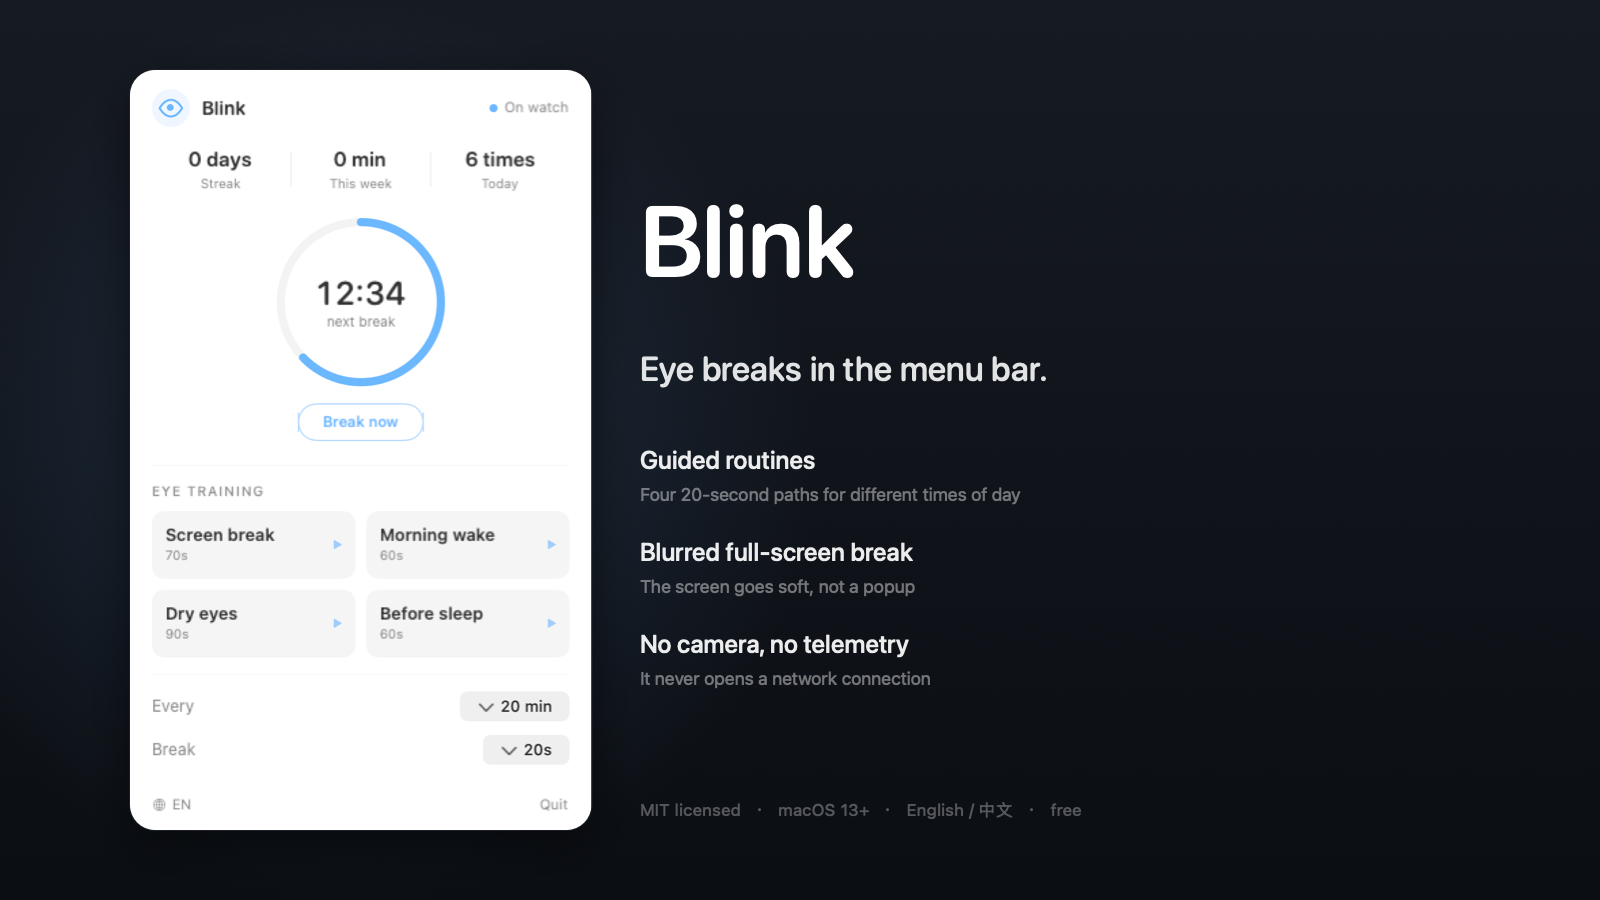
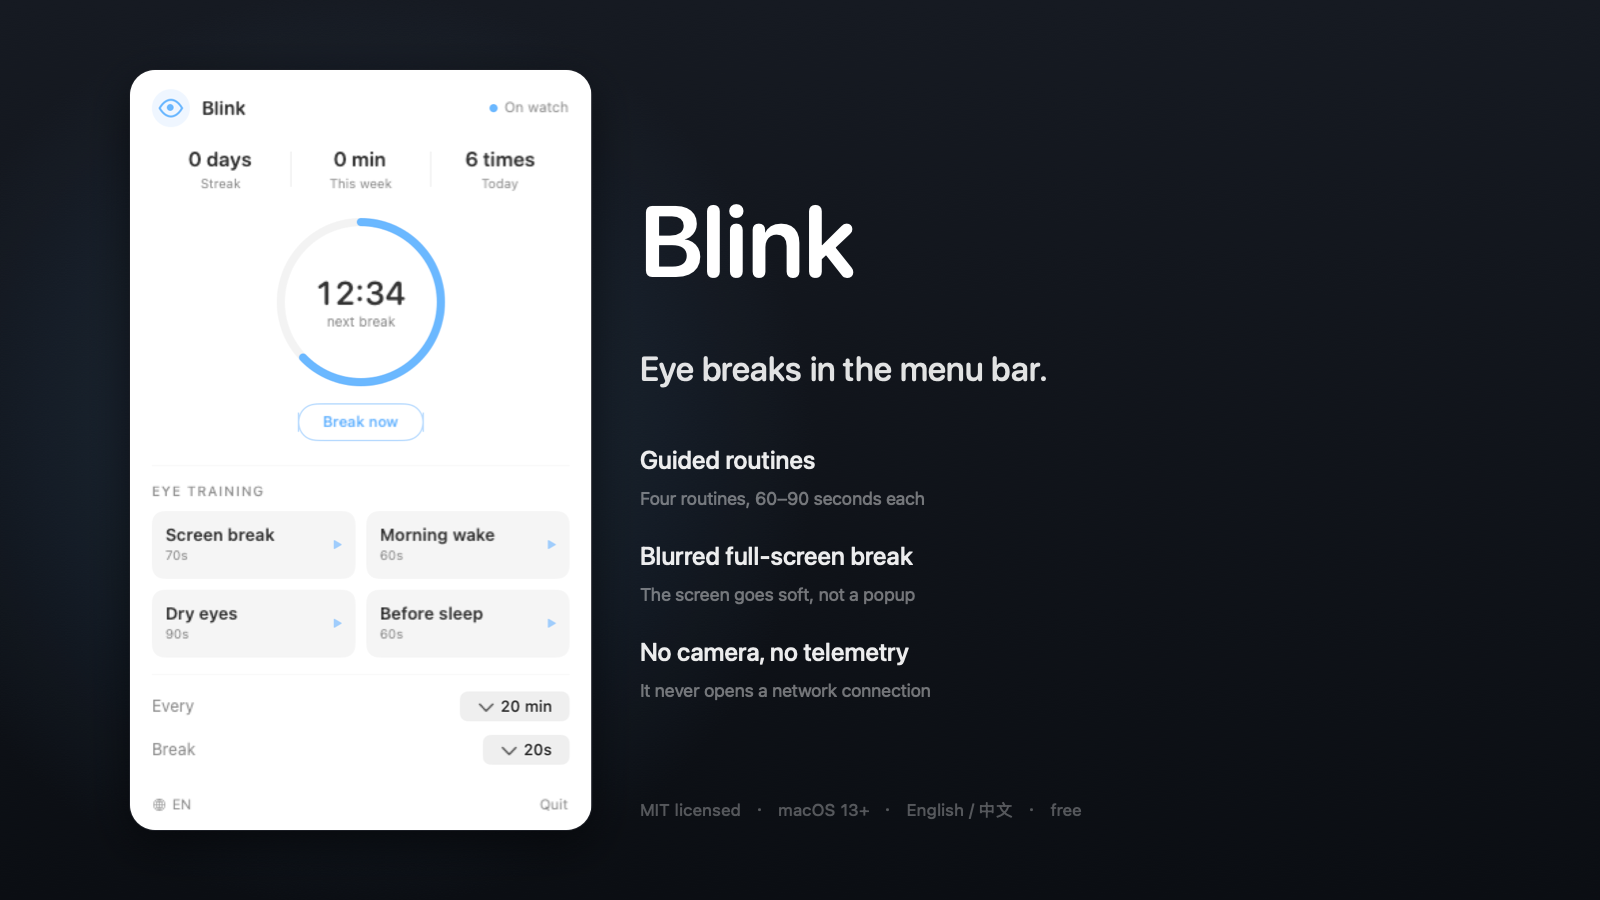
README: lead with the hero card, move install before the fold

Changed region(s): [[0.375, 0.5911, 0.5938, 0.7778], [0.4062, 0.5289, 0.6562, 0.56]]

diff --git a/Tools/make_x_card.swift b/Tools/make_x_card.swift
@@ -1,7 +1,8 @@
 import AppKit
 
-// 生成 X（Twitter）用的 1600×900 主视觉卡片
-// 用法：swift Tools/make_x_card.swift screenshots/en/menu.png screenshots/en/x-hero.png
+// 生成 1600×900 主视觉卡片（README 首屏 / X / 小红书通用）
+// 用法：swift Tools/make_x_card.swift screenshots/en/menu.png screenshots/en/x-hero.png en
+//       swift Tools/make_x_card.swift screenshots/zh/menu.png screenshots/zh/x-hero.png zh
 
 let W: CGFloat = 1600
 let H: CGFloat = 900
@@ -91,31 +92,39 @@ panel.draw(in: cardRect, from: .zero, operation: .sourceOver, fraction: 1)
 NSGraphicsContext.restoreGraphicsState()
 
 // 右侧文案
+let lang = args.count >= 4 ? args[3] : "en"
+let zh = lang == "zh"
+
 let tx: CGFloat = 640.0
 let textW: CGFloat = 900.0
 
 draw("Blink", font: roundedFont(100, .semibold),
      color: .white, x: tx, topY: 250, width: textW, spacing: -1.5)
 
-draw("Eye breaks in the menu bar.", font: roundedFont(34, .medium),
-     color: NSColor.white.withAlphaComponent(0.88), x: tx, topY: 372, width: textW)
+draw(zh ? "眼睛的休息，就在菜单栏里。" : "Eye breaks in the menu bar.",
+     font: roundedFont(zh ? 38 : 34, .medium),
+     color: NSColor.white.withAlphaComponent(0.88), x: tx, topY: zh ? 366 : 372, width: textW)
 
-let bullets: [(String, String)] = [
-    ("Guided routines", "Four 20-second paths for different times of day"),
+let bullets: [(String, String)] = zh ? [
+    ("引导式训练", "四套课程，每套 60–90 秒，跟着光点走"),
+    ("全屏模糊休息", "屏幕柔和暗下，不是弹一个窗"),
+    ("不碰摄像头，不联网", "全程零网络请求，数据只在本机")
+] : [
+    ("Guided routines", "Four routines, 60–90 seconds each"),
     ("Blurred full-screen break", "The screen goes soft, not a popup"),
     ("No camera, no telemetry", "It never opens a network connection")
 ]
 var y: CGFloat = 462
 for (title, sub) in bullets {
-    draw(title, font: .systemFont(ofSize: 25, weight: .medium),
+    draw(title, font: .systemFont(ofSize: zh ? 27 : 25, weight: .medium),
          color: NSColor.white.withAlphaComponent(0.92), x: tx, topY: y, width: textW)
     draw(sub, font: .systemFont(ofSize: 18, weight: .regular),
-         color: NSColor.white.withAlphaComponent(0.42), x: tx, topY: y + 34, width: textW)
-    y += 92
+         color: NSColor.white.withAlphaComponent(0.42), x: tx, topY: y + 38, width: textW)
+    y += 96
 }
 
 // 底栏标签
-draw("MIT licensed   ·   macOS 13+   ·   English / 中文   ·   free",
+draw(zh ? "MIT 开源   ·   macOS 13+   ·   中 / 英 双语   ·   免费" : "MIT licensed   ·   macOS 13+   ·   English / 中文   ·   free",
      font: .systemFont(ofSize: 17, weight: .regular),
      color: NSColor.white.withAlphaComponent(0.30), x: tx, topY: 812, width: textW, spacing: 0.4)
 

diff --git a/README.md b/README.md
@@ -2,15 +2,36 @@
 
 **Eye breaks your eyes can actually feel.**
 
-A macOS menu bar app that interrupts long screen sessions with a full-screen rest — then walks your eyes through a short routine: follow a dot, trace a circle, shift focus far and near, and finally close them.
+<p align="center">
+  <img src="screenshots/en/x-hero.png" width="100%" alt="Blink — eye breaks in the menu bar">
+</p>
+
+A macOS menu bar app that interrupts long screen sessions with a full-screen rest, then walks your eyes through a short routine: follow a dot, trace a circle, shift focus far and near, and finally close them.
 
 No camera. No gaze tracking. No screen capture. No network.
 
 **[中文说明](README.zh-CN.md)**
 
-<p align="center">
-  <img src="screenshots/en/menu.png" width="380" alt="Blink menu bar panel">
-</p>
+## Install
+
+1. Download `Blink.dmg` from the [latest release](../../releases/latest) — about 700 KB.
+2. Open the dmg and **double-click「安装 Blink.command」**. Don't drag the app into Applications; Gatekeeper will block it.
+3. The menu bar gets an eye icon. No Dock icon, no permission prompt, nothing to configure.
+
+The app is ad-hoc signed, not notarized yet — a Developer ID costs $99/year and I'd rather see whether people keep it installed first. The included script clears the quarantine flag and installs to `/Applications`. By hand, if you prefer:
+
+```bash
+xattr -cr /Applications/Blink.app
+open /Applications/Blink.app
+```
+
+Requires macOS 13 or later, Apple silicon or Intel.
+
+## Why another break reminder
+
+Every break app tells you to look away. Twenty seconds later you go back to the same stare, and nothing has changed.
+
+Blink treats the break as something you *do*, not something you wait out. The screen blurs, a ring fills up, and a dot starts moving. Your eyes follow it — off-center, in a slow circle, far then near. It takes 60 to 90 seconds and there is nothing to read.
 
 ## In motion
 
@@ -19,12 +40,6 @@ No camera. No gaze tracking. No screen capture. No network.
 </p>
 
 Eleven seconds out of a session, looping — four movements, in the order you'd actually do them. The [24-second version](media/training-24s-en.mp4) keeps the original pacing.
-
-## Why another break reminder
-
-Every break app tells you to look away. Twenty seconds later you go back to the same stare, and nothing has changed.
-
-Blink treats the break as something you *do*, not something you wait out. The screen blurs, a ring fills up, and a dot starts moving. Your eyes follow it — off-center, in a slow circle, far then near. It takes 60 to 90 seconds and there is nothing to read.
 
 ## One session, three screens
 
@@ -73,21 +88,6 @@ Interval 5–240 minutes, break length 10 seconds to 10 minutes, both with prese
   <img src="screenshots/en/reminder-card.png" width="300" alt="Reminder card">
 </p>
 
-## Install
-
-1. Download `Blink.dmg` from the [latest release](../../releases/latest).
-2. Open the dmg and **double-click「安装 Blink.command」**. Don't drag the app.
-3. The menu bar gets an eye. There is no Dock icon.
-
-The app is ad-hoc signed, not notarized, so dragging it into Applications is blocked by Gatekeeper. The included script clears the quarantine flag and installs to `/Applications`. If you'd rather do it by hand:
-
-```bash
-xattr -cr /Applications/Blink.app
-open /Applications/Blink.app
-```
-
-Requires macOS 13 or later, Apple silicon or Intel.
-
 ## Privacy
 
 The training is visually guided, which means nothing needs to be measured.
@@ -103,6 +103,14 @@ More in [PRIVACY.md](PRIVACY.md).
 Those are reminder apps. The timer is the product, and the break is a pause.
 
 Blink keeps the reminder because a break still has to be triggered — but the product is the two minutes after it. Blink is about what your eyes do during the break: a guided routine you follow with your eyes instead of a countdown you watch.
+
+## Status
+
+Early, and honest about it.
+
+- Ad-hoc signed. Works locally, but Gatekeeper will complain for anyone who downloads it — the installer script handles that.
+- No notarization yet. That needs a Developer ID, and I'd rather see whether people keep it installed first.
+- No gaze tracking. Macs have no TrueDepth camera, and Vision only exposes eyelid landmarks, not pupil position. That's why the routine is fixed rather than adaptive.
 
 ## Build from source
 
@@ -145,17 +153,9 @@ Sources/Blink/
     TrainingScene.swift       Training + finish page
     BlurBackdrop.swift        Gaussian blur backdrop
 Resources/                    Info.plist, icon, installer script
-Tools/                        Icon generation, video rendering
+Tools/                        Icon generation, video rendering, card rendering
 build.sh                      build → bundle → sign → dmg
 ```
-
-## Status
-
-Early, and honest about it.
-
-- Ad-hoc signed. Works locally, but Gatekeeper will complain for anyone who downloads it — the installer script handles that.
-- No notarization yet. That needs a Developer ID, and I'd rather see whether people keep it installed first.
-- No gaze tracking. Macs have no TrueDepth camera, and Vision only exposes eyelid landmarks, not pupil position. That's why the routine is fixed rather than adaptive.
 
 ## License
 
